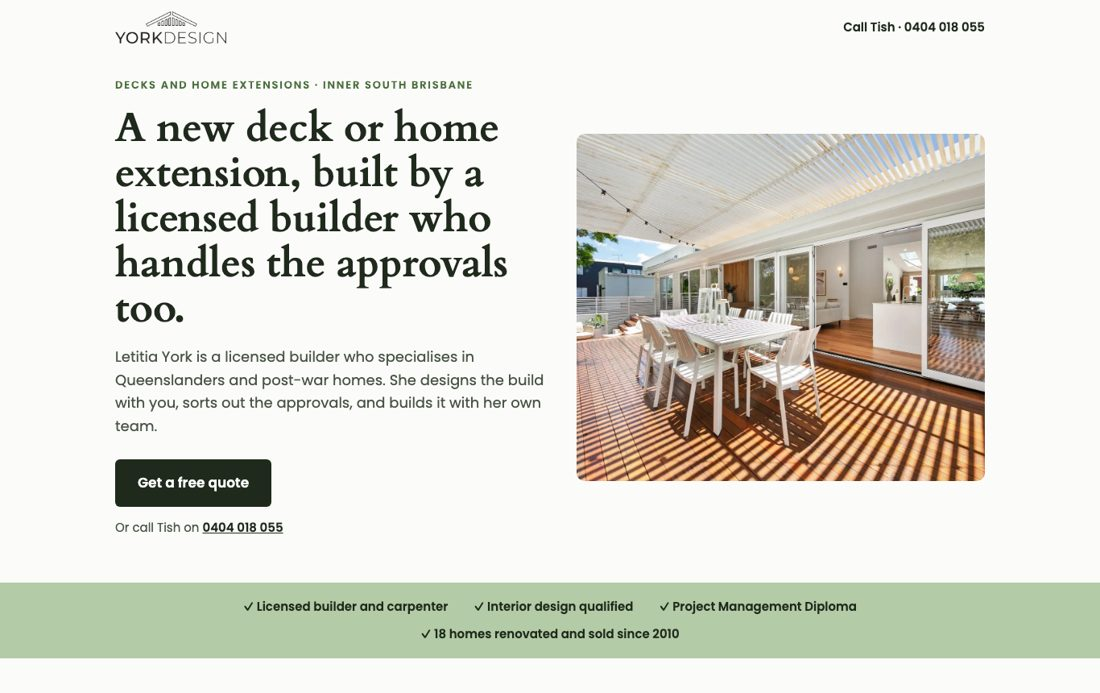
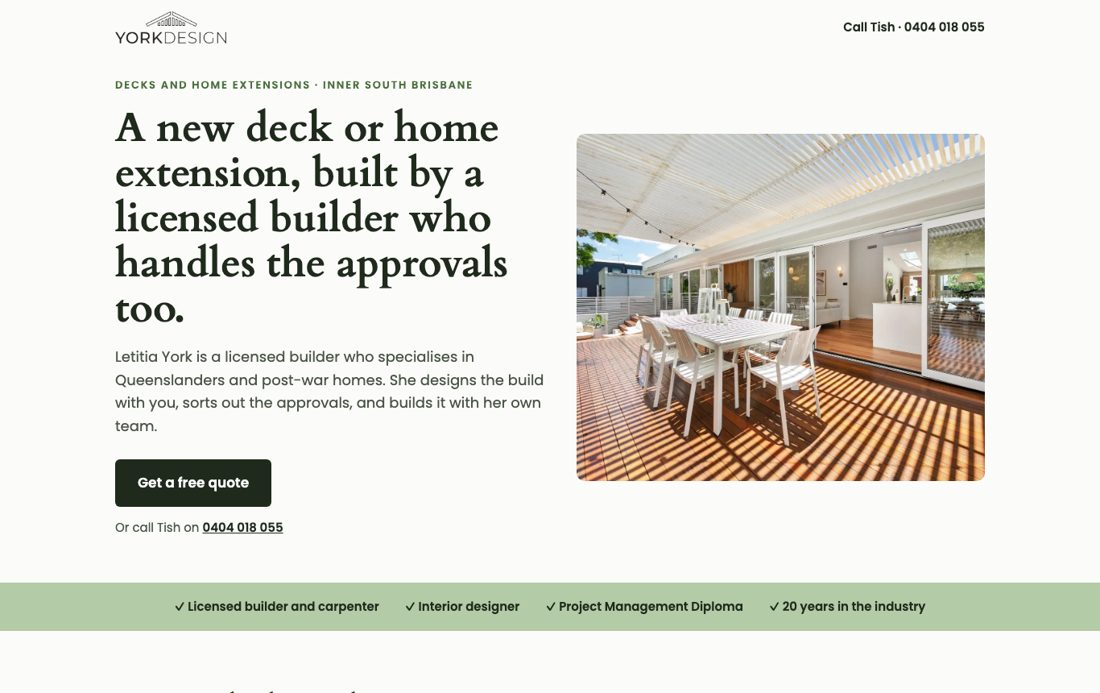
York Design approval page: Tish's second edit to post D1

Changed region(s): [[0.0, 0.8485, 1.0, 0.9697]]

diff --git a/clients/york-design/index.html b/clients/york-design/index.html
@@ -129,7 +129,7 @@ footer{margin-top:64px;padding-top:18px;border-top:1px solid var(--line);color:v
 <section id="posts"><h2>D · First nine posts</h2>
 <p class="lead">Written in your voice, so read them as if you were posting them. They go up in this order, before the ads start, so anyone who clicks through to your profile sees your work.</p>
 <div class="posts"><figure class="post" id="d1"><img src="/clients/york-design/i/post-01.jpg" alt="Post 1" width="640" height="800" loading="lazy">
-<figcaption><span class="code">D1</span><p>Hi, I&#x27;m Tish, and this is York Design.</p><p>I started out as a teacher. In 2010 I renovated and flipped my first house, and over the next ten years I did 18 of them. Then I made it official: carpentry and builder&#x27;s licence, Project Management Diploma and interior design study.</p><p>These days I renovate other people&#x27;s Queenslanders in Brisbane&#x27;s inner south. Kitchens, bathrooms, laundries and decks. I design the job with you and I&#x27;m on site building it.</p><p>This page is where I&#x27;ll share the jobs as they happen.</p><p>#queenslander #brisbanerenovation #yorkdesign #duttonpark #moorooka</p></figcaption></figure><figure class="post" id="d2"><img src="/clients/york-design/i/post-02.jpg" alt="Post 2" width="640" height="800" loading="lazy">
+<figcaption><span class="code">D1</span><p>Hi, I&#x27;m Tish, and this is York Design.</p><p>I started out as a teacher. In 2010 I renovated and flipped my first house, and over the next ten years I did 18 of them. Then I made it official: carpentry and builder&#x27;s licence, Project Management Diploma and interior design study.</p><p>These days I renovate other people&#x27;s Queenslanders and post-war homes in Brisbane&#x27;s inner south - kitchens, bathrooms, laundries and decks. I design the job with you and I&#x27;m on site building it.</p><p>This page is where I&#x27;ll share the jobs as they happen.</p><p>#queenslander #brisbanerenovation #yorkdesign #duttonpark #moorooka</p></figcaption></figure><figure class="post" id="d2"><img src="/clients/york-design/i/post-02.jpg" alt="Post 2" width="640" height="800" loading="lazy">
 <figcaption><span class="code">D2</span><p>The Tillot kitchen, Dutton Park.</p><p>The house was built in 1885. Every part of it was repaired, restored or replaced, and the post-war add-ons came off first.</p><p>The kitchen got a long stone island, timber stools and an arched wine wall. The skylight does most of the work during the day.</p><p>#queenslander #kitchenrenovation #brisbanekitchens #duttonpark #yorkdesign</p></figcaption></figure><figure class="post" id="d3"><img src="/clients/york-design/i/post-03.jpg" alt="Post 3" width="640" height="800" loading="lazy">
 <figcaption><span class="code">D3</span><p>One of the bathrooms at Tillot, Dutton Park.</p><p>Fluted glass, a timber vanity and two pink basins. A bathroom like this needs a plumber, electrician, waterproofer, tiler and carpenter, in the right order. I book and sequence all of them, so my clients only ever have one person to call.</p><p>#bathroomrenovation #brisbanebathrooms #queenslander #yorkdesign</p></figcaption></figure><figure class="post" id="d4"><img src="/clients/york-design/i/post-04.jpg" alt="Post 4" width="640" height="800" loading="lazy">
 <figcaption><span class="code">D4</span><p>Philip, Hawthorne.</p><p>This 2 bed, 1 bath house became a 3 bed, 2 bath house without growing its footprint. Part of a very large external deck was turned into internal space for this new kitchen.</p><p>Sometimes the room you need is already there.</p><p>#hawthorne #kitchenrenovation #brisbanerenovation #yorkdesign</p></figcaption></figure><figure class="post" id="d5"><img src="/clients/york-design/i/post-05.jpg" alt="Post 5" width="640" height="800" loading="lazy">
